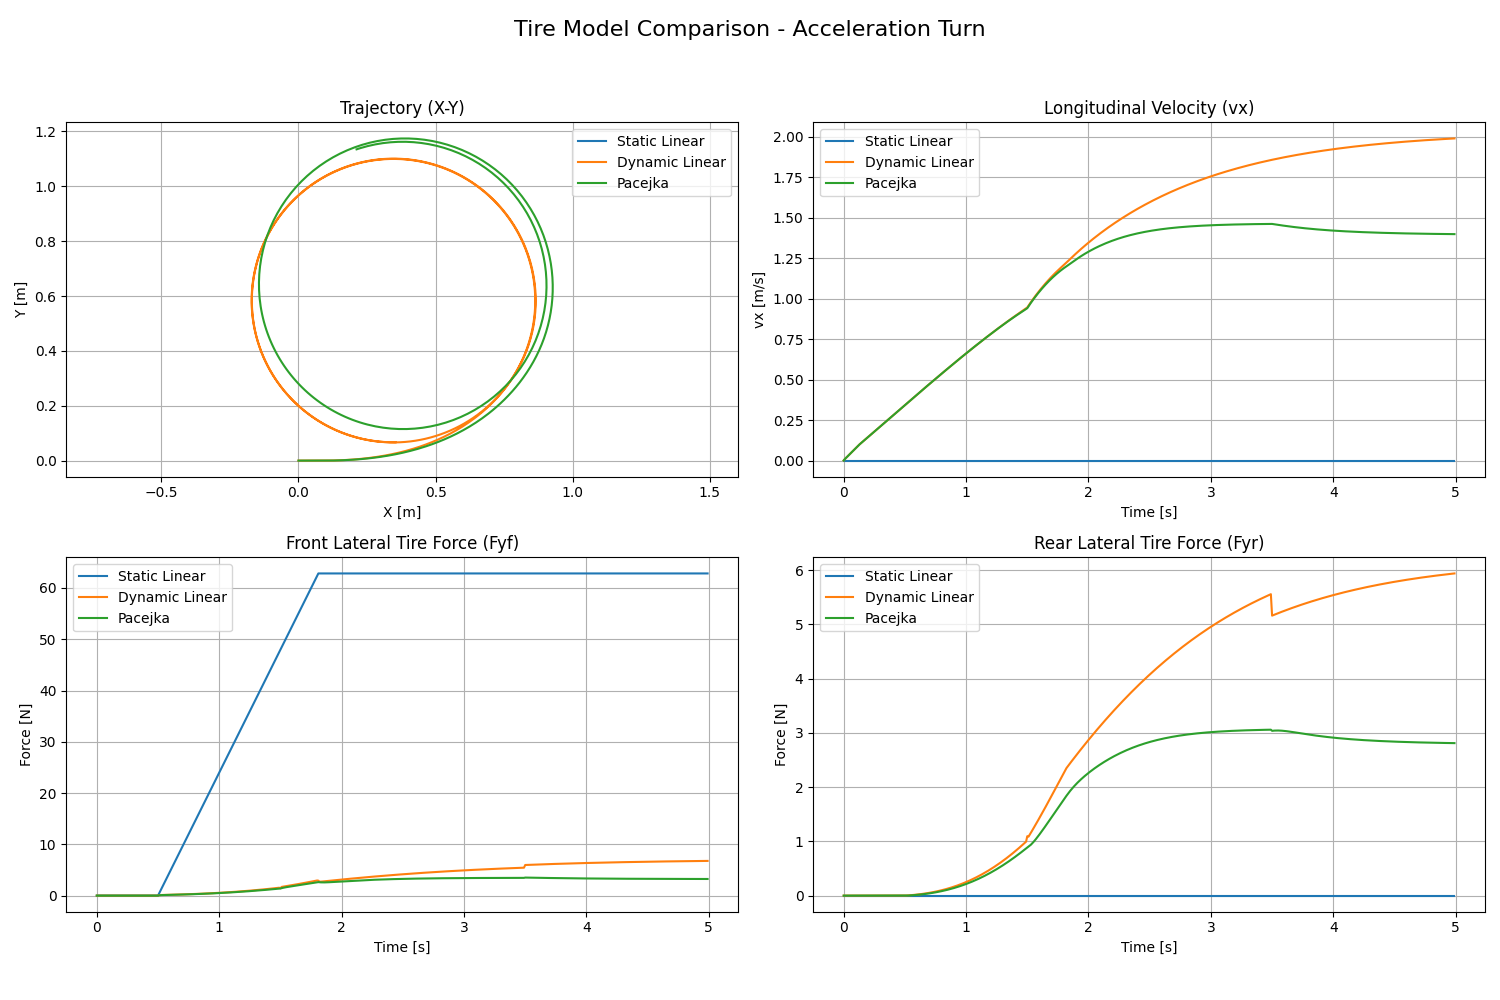
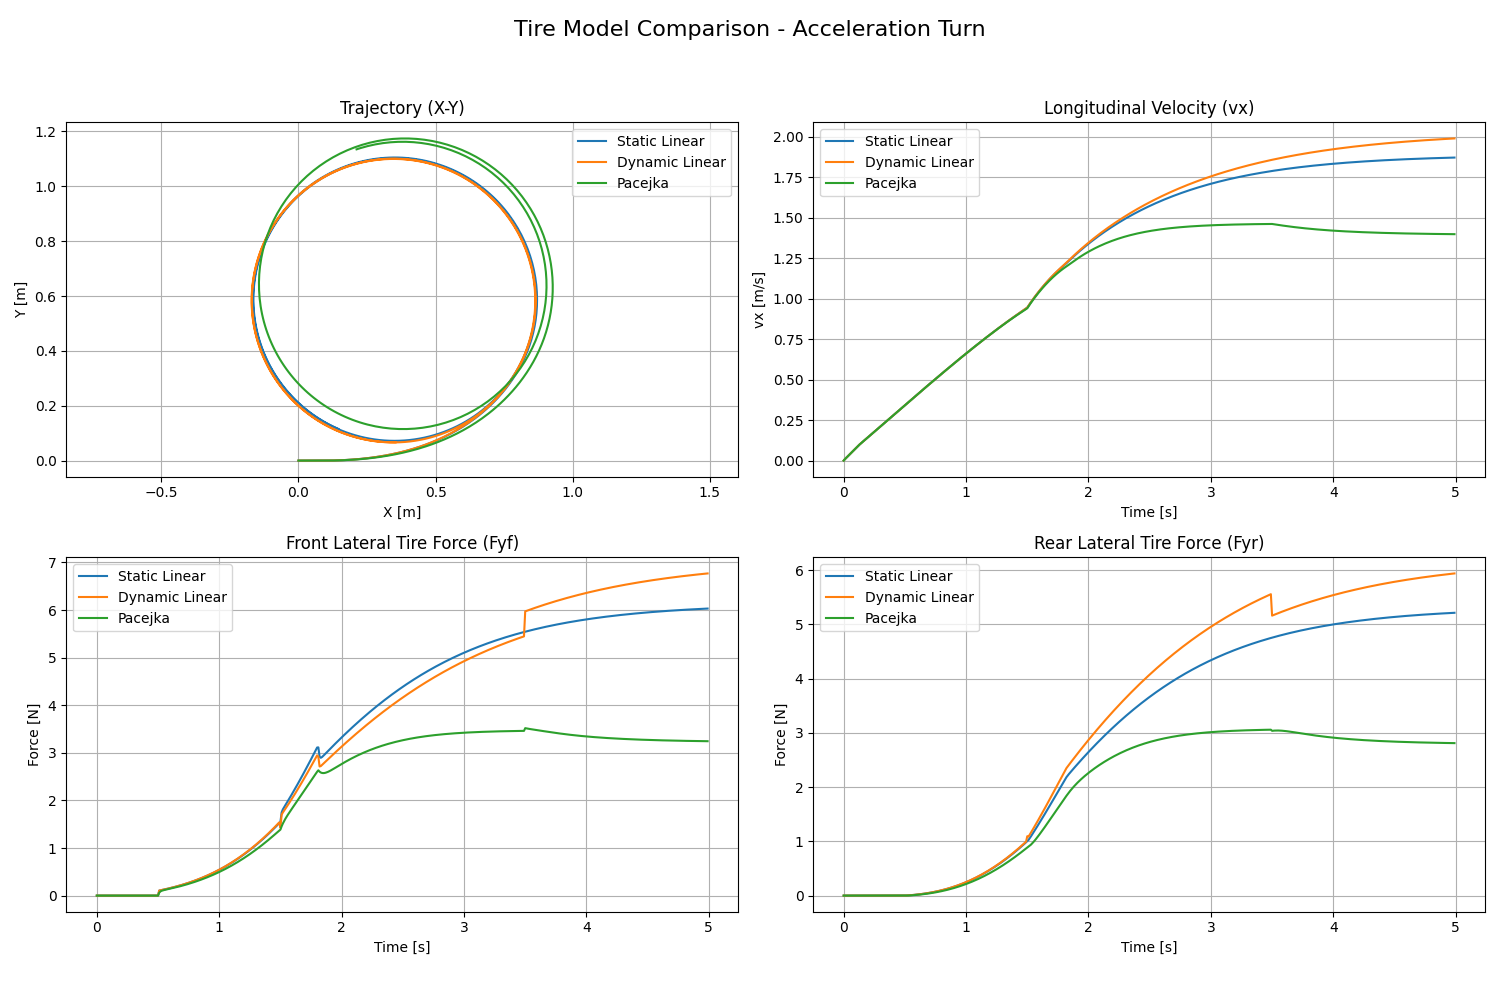
fix_test model tire

diff --git a/Development/multi_vehicle_self_driving_RealQcar/qcar/GUI/vehiclemodels/vehicle_dynamics_qlpv.py b/Development/multi_vehicle_self_driving_RealQcar/qcar/GUI/vehiclemodels/vehicle_dynamics_qlpv.py
@@ -33,7 +33,7 @@ from typing import Tuple, Optional
 from .utils.steering_constraints import steering_constraints
 from .utils.acceleration_constraints import acceleration_constraints
 
-def vehicle_dynamics_qlpv(x, u_init, p, use_pacejka: bool = True):
+def vehicle_dynamics_qlpv(x, u_init, p,  tire_mode: str = None ):
     """
     qLPV vehicle dynamics matching observer model
     
@@ -47,7 +47,8 @@ def vehicle_dynamics_qlpv(x, u_init, p, use_pacejka: bool = True):
         :param x: vehicle state vector [X, Y, δ, v_x, ψ, r, v_y]
         :param u_init: vehicle input vector [δ_dot, a]
         :param p: vehicle parameter object
-        :param use_pacejka: if True, use Pacejka tire model for true forces
+        :param tire_mode: Tire model selection: 'static_linear', 'dynamic_linear', 'pacejka'
+                         If None, falls back to use_pacejka for backward compatibility
     
     Outputs:
         :return f: right-hand side of differential equations (7D)
@@ -106,11 +107,20 @@ def vehicle_dynamics_qlpv(x, u_init, p, use_pacejka: bool = True):
     
     # Compute tire forces
     a_long = u[1]
-    if use_pacejka and hasattr(p, 'tire'):
-        # Use Pacejka tire model for true nonlinear forces
+    
+
+    
+    if tire_mode == 'static_linear':
+        # Simple linear model: F = C * alpha (no load transfer)
+        Fyf, Fyr = compute_tire_forces_linear(alpha_f, alpha_r, Cf, Cr)
+    elif tire_mode == 'dynamic_linear':
+        # Linear model with load transfer
+        Fyf, Fyr = compute_tire_forces_load_transfer(alpha_f, alpha_r, p, a_long)
+    elif tire_mode == 'pacejka' and hasattr(p, 'tire'):
+        # Pacejka nonlinear tire model
         Fyf, Fyr = compute_tire_forces_pacejka(alpha_f, alpha_r, p, vx, a_long)
     else:
-        # Use linear tire model with load transfer
+        # Fallback to dynamic linear if pacejka requested but no tire params
         Fyf, Fyr = compute_tire_forces_load_transfer(alpha_f, alpha_r, p, a_long)
     
     # Trigonometric functions
@@ -443,19 +453,18 @@ class QLPVVehicleModel:
     STATE_DIM = 7
     
     def __init__(self, params, sample_time: float = 0.02,
-                 use_pacejka: bool = True):
+                  tire_mode= 'pacejka'):
         """
         Initialize qLPV vehicle model
         
         Args:
             params: Vehicle parameters object
             sample_time: Integration time step [s]
-            use_pacejka: Whether to use Pacejka tire model for true forces
+            tire_mode: Tire model selection: 'static_linear', 'dynamic_linear', 'pacejka'
         """
         self.params = params
         self.Ts = sample_time
-        self.use_pacejka = use_pacejka
-        
+        self.tire_mode = tire_mode
         # Extract cornering stiffness for residual computation
         self.Cf = getattr(params, 'Cf', 120.0)
         self.Cr = getattr(params, 'Cr', 120.0)
@@ -511,7 +520,7 @@ class QLPVVehicleModel:
         """
         # Compute derivatives
         f = vehicle_dynamics_qlpv(self.state, control_input, self.params,
-                                   use_pacejka=self.use_pacejka)
+                                   tire_mode=self.tire_mode)
         
         # Euler integration
         for i in range(self.STATE_DIM):
@@ -542,12 +551,15 @@ class QLPVVehicleModel:
         self.alpha_r = -(vy - lr * r) / vx
         
         # True tire forces (Truth model)
-        if self.use_pacejka and hasattr(self.params, 'tire'):
+        if self.tire_mode == 'pacejka' and hasattr(self.params, 'tire'):
             self.Fyf, self.Fyr = compute_tire_forces_pacejka(
                 self.alpha_f, self.alpha_r, self.params, vx, a_long)
-        else:
+        elif self.tire_mode == 'static_linear':
             self.Fyf, self.Fyr = compute_tire_forces_load_transfer(
-                self.alpha_f, self.alpha_r, self.params, a_long)
+                self.alpha_f, self.alpha_r, self.params, vx, a_long)
+        elif self.tire_mode == 'dynamic_linear':
+            self.Fyf, self.Fyr = compute_tire_forces_linear(
+                self.alpha_f, self.alpha_r, self.params, vx, a_long)
         
         # Tire residuals (ground truth)
         # Compares Truth model with Static Linear reference (Cf, Cr)

diff --git a/Development/multi_vehicle_self_driving_RealQcar/qcar/GUI/test_tire_models_comparison.py b/Development/multi_vehicle_self_driving_RealQcar/qcar/GUI/test_tire_models_comparison.py
@@ -22,8 +22,6 @@ from vehiclemodels.vehicle_dynamics_qlpv import (
     compute_tire_forces_pacejka
 )
 from vehiclemodels.vehicle_parameters import setup_vehicle_parameters
-from vehiclemodels.utils.steering_constraints import steering_constraints
-from vehiclemodels.utils.acceleration_constraints import acceleration_constraints
 
 def run_simulation(scenario_name, throttle_profile, steering_profile, dt=0.001, duration=5.0):
     """Run simulation for a specific scenario using 3 different tire configurations"""
@@ -72,43 +70,16 @@ def run_simulation(scenario_name, throttle_profile, steering_profile, dt=0.001, 
             alpha_f = delta - (vy + p.a * r) / vx_safe
             alpha_r = -(vy - p.b * r) / vx_safe
             
-            # Manually compute forces for logging/manual simulation
+            # Use same dynamics framework for all models, only tire force calculation differs
             if name == 'Static Linear':
-                # Force the use of the basic linear model for this baseline
                 Fyf, Fyr = compute_tire_forces_linear(alpha_f, alpha_r, p.Cf, p.Cr)
-                
-                # Apply constraints and kinematic/dynamic logic similar to core model
-                steer_rate = steering_constraints(delta, u_raw[0], p.steering)
-                accel = acceleration_constraints(vx, u_raw[1], p.longitudinal)
-                
-                if abs(vx) < 0.1:
-                    # Kinematic model
-                    lwb = p.a + p.b
-                    beta = np.arctan2(p.b * np.tan(delta), lwb) if abs(delta) > 0.001 else 0.0
-                    vx_dot = accel - (9.81 * 0.015) * np.sign(vx) if abs(vx) > 0.01 else 0.0
-                    f = [
-                        vx * np.cos(psi + beta),
-                        vx * np.sin(psi + beta),
-                        steer_rate,
-                        vx_dot,
-                        vx / lwb * np.tan(delta) * np.cos(beta) if abs(vx) > 0.01 else 0.0,
-                        0.0, 0.0
-                    ]
-                else:
-                    # Dynamic model
-                    vx_dot = accel - (9.81 * 0.015) * np.sign(vx) + r*vy - (Fyf * np.sin(delta))/p.m
-                    vy_dot = (Fyr + Fyf * np.cos(delta))/p.m - r*vx
-                    psi_dot = r
-                    r_dot = (p.a * Fyf * np.cos(delta) - p.b * Fyr) / p.I_z
-                    X_dot = vx * np.cos(psi) - vy * np.sin(psi)
-                    Y_dot = vx * np.sin(psi) + vy * np.cos(psi)
-                    f = [X_dot, Y_dot, steer_rate, vx_dot, psi_dot, r_dot, vy_dot]
+                f = vehicle_dynamics_qlpv(state, u_raw, p, tire_mode='static_linear')
             elif name == 'Dynamic Linear':
                 Fyf, Fyr = compute_tire_forces_load_transfer(alpha_f, alpha_r, p, u_raw[1])
-                f = vehicle_dynamics_qlpv(state, u_raw, p, use_pacejka=False)
-            else: # Pacejka
+                f = vehicle_dynamics_qlpv(state, u_raw, p, tire_mode='dynamic_linear')
+            else:  # Pacejka
                 Fyf, Fyr = compute_tire_forces_pacejka(alpha_f, alpha_r, p, vx, u_raw[1])
-                f = vehicle_dynamics_qlpv(state, u_raw, p, use_pacejka=True)
+                f = vehicle_dynamics_qlpv(state, u_raw, p, tire_mode='pacejka')
             
             # Step
             state += np.array(f) * dt
